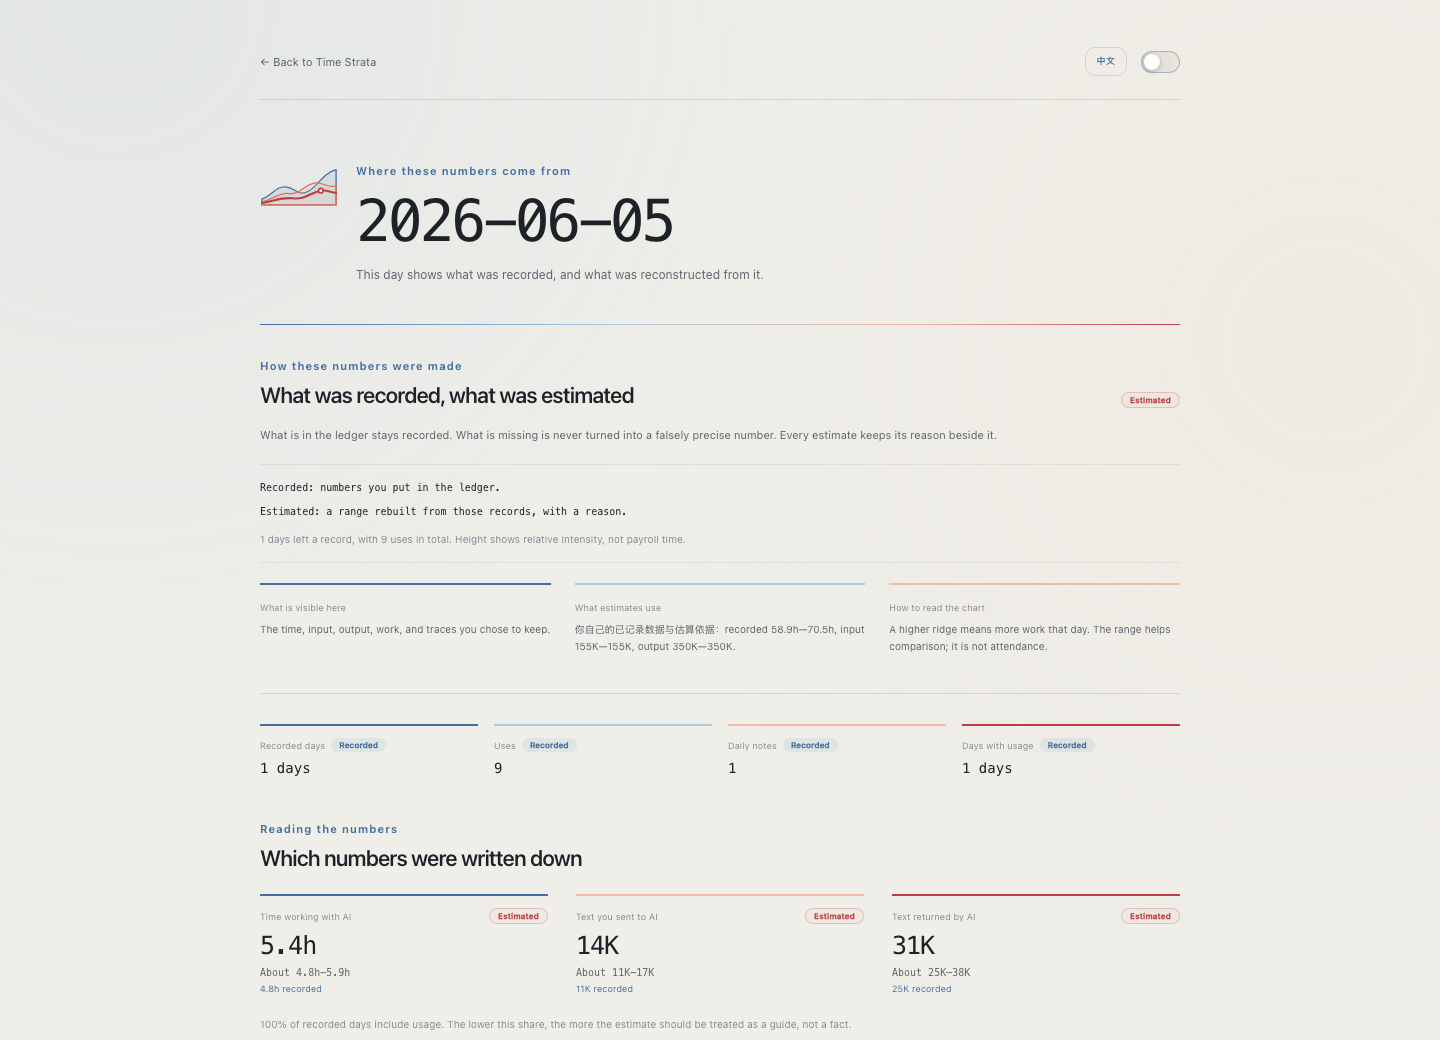
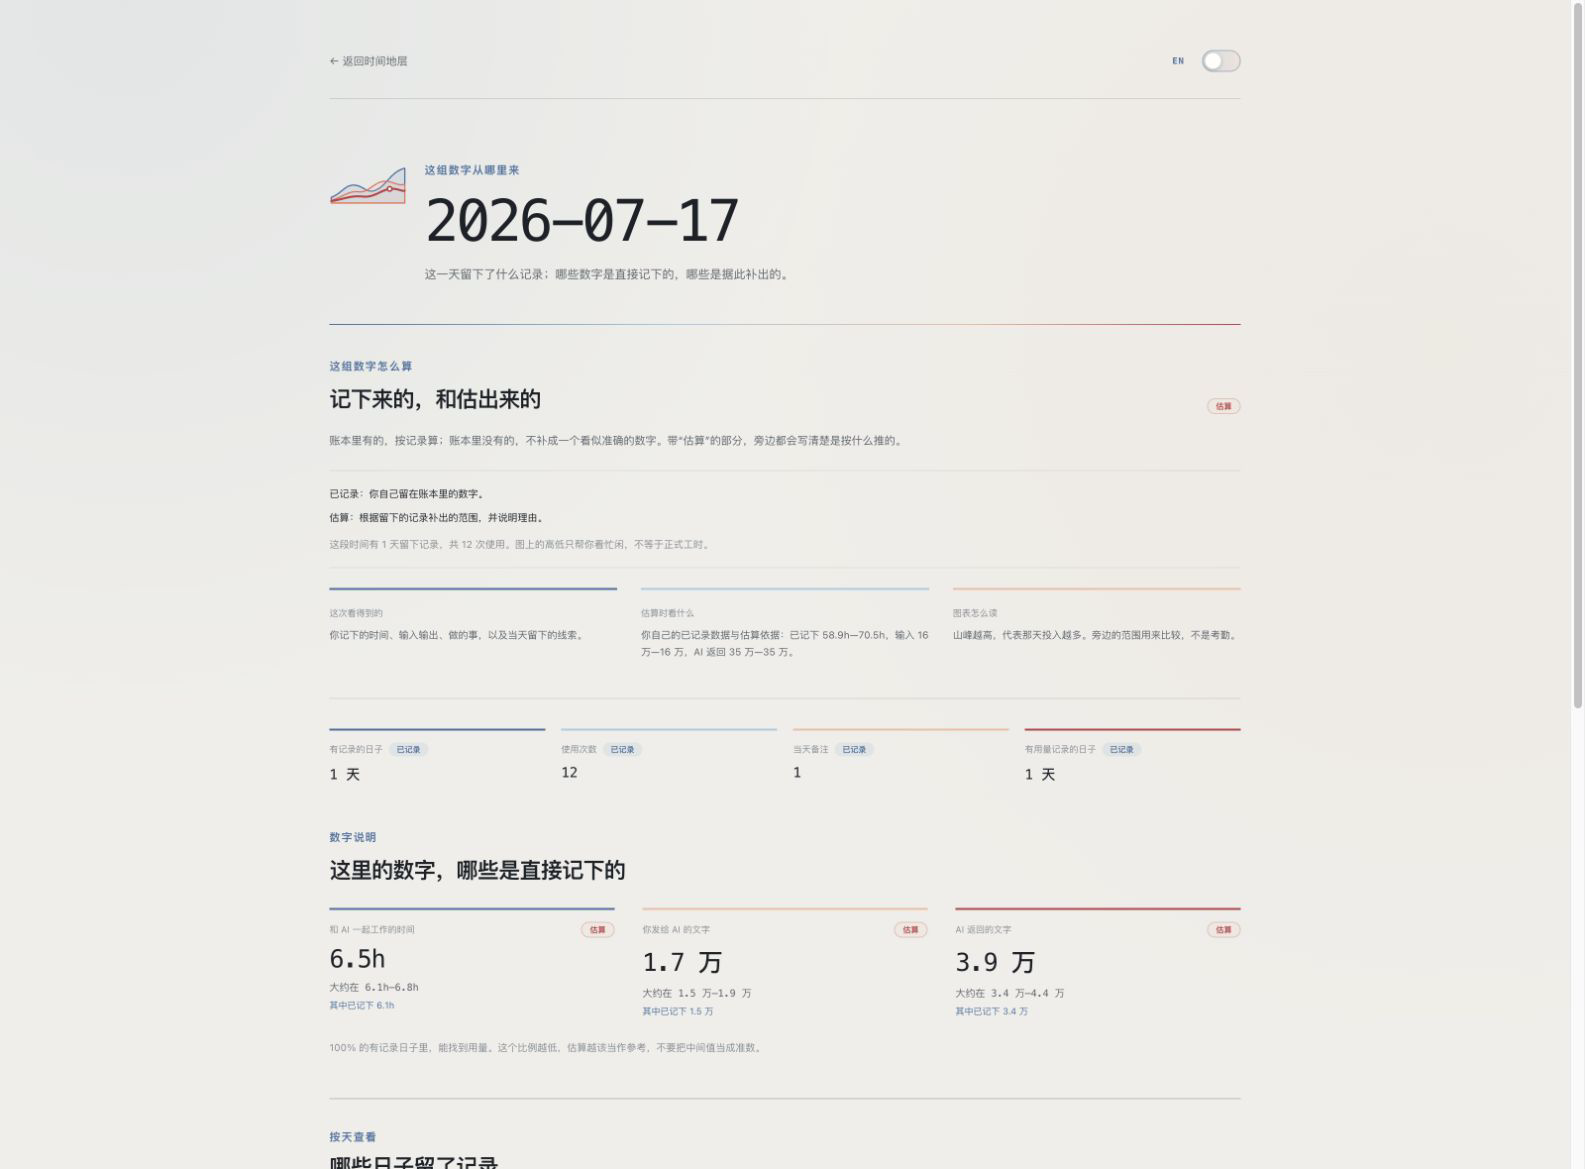
docs: freeze AI Usage Strata v1.0.0

diff --git a/docs/launch/README.zh-CN.md b/docs/launch/README.zh-CN.md
@@ -1,6 +1,6 @@
-# 发布素材包
+# v1.0.0 稳定版发布素材包
 
-这套素材给第一次公开介绍 AI Usage Strata 使用。产品截图只展示虚构案例；不要把任何真实账本、证据链接、项目名称或本地路径放进公开图文。
+这套素材用于公开介绍 AI Usage Strata v1.0.0。产品截图只展示虚构案例；不要把任何真实账本、证据链接、项目名称或本地路径放进公开图文。
 
 ## 文件说明
 
@@ -9,13 +9,13 @@
 | `visuals/ai-usage-strata-cover-horizontal.png` | 1600×900 横版主视觉；适合公众号头图、GitHub Release、LinkedIn、微博配图。 |
 | `visuals/ai-usage-strata-cover-vertical.png` | 1080×1440 竖版封面；适合小红书首图、朋友圈长图、视频封面。 |
 | `visuals/ai-usage-strata-product.png` | 真实公开版页面截图；适合放在第二张，说明这不是概念图。 |
-| `发布文案.md` | 可直接复制的首发文案、不同平台短文案与发布顺序。 |
+| `发布文案.md` | 可直接复制的稳定版文案、不同平台短文案与发布顺序。 |
 
 封面中的山脊背景由内置图像生成工具生成；标题文字和信息排版由本仓库中的 HTML 保证可编辑、可核对。`cover-horizontal.html` 与 `cover-vertical.html` 是两张成图的可编辑源文件。
 
-## 最稳的一次发布顺序
+## 最稳的发布顺序
 
-1. 先发 GitHub Release 和在线页面链接。
+1. 先发 v1.0.0 GitHub Release 和在线页面链接。
 2. 用竖版封面 + 产品截图发小红书或朋友圈；正文放“本机保存、无账号、示例默认关闭”三个事实。
 3. 用横版封面 + GitHub 链接发公众号、微博或 LinkedIn。
 4. 评论区置顶在线体验、GitHub、MIT License 三个链接。

diff --git a/README.md b/README.md
@@ -1,10 +1,19 @@
 # AI Usage Strata
 
-[简体中文](README.zh-CN.md) · [Live app](https://novakepler513.github.io/ai-usage-strata/) · [How to use AI to prepare a ledger](docs/ai-assisted-import.md) · [Ledger format](docs/ledger-format.md) · [Contribute](CONTRIBUTING.md) · [Launch kit](docs/launch/README.md) · [MIT License](LICENSE)
+[简体中文](README.zh-CN.md) · [Live app](https://novakepler513.github.io/ai-usage-strata/) · [Stable v1.0.0](https://github.com/NovaKepler513/ai-usage-strata/releases/tag/v1.0.0) · [How to use AI to prepare a ledger](docs/ai-assisted-import.md) · [Ledger format](docs/ledger-format.md) · [Contribute](CONTRIBUTING.md) · [Launch kit](docs/launch/README.md) · [MIT License](LICENSE)
 
 > A local-first visual ledger for the time, text, and work you do with AI.
 
 ![AI Usage Strata overview: an interactive time-strata dashboard with a 3D ridge view](assets/readme/overview.png)
+
+## v1.0.0 stable release
+
+- Starts at zero; data appears only after you enter it, import it, or deliberately open the fictional example.
+- Supports manual entry, CSV/TSV/JSON, and a review-first route through your own Codex, Claude Code, or another AI.
+- Date wheels apply on click, cover 1900–2100 by default, and extend for imported out-of-range records. Invalid start/end combinations produce a visible page-level warning.
+- Chinese and English, light and dark themes, category filters, day evidence, and the rotatable waterfall now form one complete path.
+
+This is the frozen stable baseline. Further improvements continue through GitHub Issues and pull requests, without bringing real ledgers into the public repository.
 
 ## One question, made visible
 

diff --git a/README.zh-CN.md b/README.zh-CN.md
@@ -1,10 +1,19 @@
 # AI Usage Strata
 
-[English](README.md) · [在线体验](https://novakepler513.github.io/ai-usage-strata/) · [让 AI 整理账本](docs/ai-assisted-import.zh-CN.md) · [账本格式](docs/ledger-format.md) · [参与贡献](CONTRIBUTING.md) · [发布素材](docs/launch/README.zh-CN.md) · [MIT 许可证](LICENSE)
+[English](README.md) · [在线体验](https://novakepler513.github.io/ai-usage-strata/) · [稳定版 v1.0.0](https://github.com/NovaKepler513/ai-usage-strata/releases/tag/v1.0.0) · [让 AI 整理账本](docs/ai-assisted-import.zh-CN.md) · [账本格式](docs/ledger-format.md) · [参与贡献](CONTRIBUTING.md) · [发布素材](docs/launch/README.zh-CN.md) · [MIT 许可证](LICENSE)
 
 > 一个本机优先的可视化账本：把你和 AI 一起工作的时间、文字量与去向，变成一段可回看的记录。
 
 ![AI Usage Strata 总览：带有三维瀑布山脊图的交互式时间账本](assets/readme/overview.png)
+
+## v1.0.0 稳定版
+
+- 默认从 0 开始；只有主动填写、导入或打开虚构示例后才会出现数据。
+- 支持手填、CSV／TSV／JSON，以及让自己的 Codex、Claude Code 或其他 AI 先整理再导入。
+- 日期滚轮可直接点选，默认覆盖 1900—2100 年；导入更早或更晚的记录时会继续扩展。无效起止日期会在页面上方明确提醒。
+- 中英文、明暗主题、分类筛选、日期证据页和可旋转的瀑布山脊图已经组成完整使用链路。
+
+这是当前冻结的稳定基线。后续改进通过 GitHub Issue 和 Pull Request 继续，不会把真实账本带进公开仓库。
 
 ## 它想回答的，其实只有一个问题
 

diff --git a/docs/launch/README.md b/docs/launch/README.md
@@ -1,4 +1,4 @@
-# Launch kit
+# v1.0.0 stable launch kit
 
 This is the public launch kit for AI Usage Strata. It contains only a fictional product view and abstract artwork; do not replace those files with a real ledger, an evidence URL, a client name, or a local path.
 
@@ -8,14 +8,14 @@ This is the public launch kit for AI Usage Strata. It contains only a fictional 
 | --- | --- |
 | `visuals/ai-usage-strata-cover-horizontal.png` | 1600×900 banner for a release page, LinkedIn, X, newsletter, or article header. |
 | `visuals/ai-usage-strata-cover-vertical.png` | 1080×1440 portrait cover for short-form social posts. |
-| `visuals/ai-usage-strata-product.png` | Screenshot of the real public first-run state; use it after a cover to show the product is real. |
+| `visuals/ai-usage-strata-product.png` | Screenshot of the real public app with its fictional example; use it after a cover to show the product is real. |
 | `launch-copy.md` | Ready-to-edit English launch copy and a short release note. |
 
 The ridge backgrounds were created with the built-in image-generation tool. All typography is rendered by the editable HTML cover sources, so the copy remains inspectable and easy to localise.
 
-## A safe first announcement
+## A safe release post
 
-1. Publish the GitHub Release and live-app URL first.
+1. Publish the v1.0.0 GitHub Release and live-app URL first.
 2. Use a cover followed by the public product screenshot.
 3. Pin the live app, source repository, and MIT License links in the reply or comments.
 4. Never post a real ledger, source export, chat log, named client, or local evidence screen.

diff --git a/docs/launch/发布文案.md b/docs/launch/发布文案.md
@@ -1,9 +1,10 @@
-# AI Usage Strata 首发文案
+# AI Usage Strata v1.0.0 稳定版发布文案
 
 发布链接：
 
 - 在线体验：https://novakepler513.github.io/ai-usage-strata/
 - 开源仓库：https://github.com/NovaKepler513/ai-usage-strata
+- 稳定版：https://github.com/NovaKepler513/ai-usage-strata/releases/tag/v1.0.0
 - MIT License：https://github.com/NovaKepler513/ai-usage-strata/blob/main/LICENSE
 
 ## 主文案｜小红书、公众号、微博长文
@@ -19,6 +20,8 @@
 这段时间我一直在想：我们越来越频繁地和 AI 一起工作，但回头看时，往往只剩下一种很模糊的感觉——好像很忙，却说不清哪天真正集中、时间主要花在哪、某个高峰到底对应什么工作。
 
 所以我做了 AI Usage Strata。
+
+现在它到了 v1.0.0：从第一次填写、表格或 JSON 导入、让自己的 AI 整理，到查看日期高峰、工作分类和当天证据，已经是一条完整链路。
 
 它是一个本机优先的可视化账本：你只记录自己愿意留下的数据，页面就把时间、输入、输出、工作分类和当天证据，整理成一段可以旋转、筛选和回看的“时间地层”。
 
@@ -68,7 +71,7 @@ Source: https://github.com/NovaKepler513/ai-usage-strata
 
 I would value feedback on import adapters, accessibility, translations, and the ways people want to inspect AI-assisted work without giving up privacy.
 
-## GitHub Release｜短说明
+## GitHub Release｜v1.0.0 短说明
 
 AI Usage Strata is now available as an open-source, local-first AI work ledger.
 

diff --git a/docs/launch/交付说明.md b/docs/launch/交付说明.md
@@ -1,10 +1,10 @@
-# AI Usage Strata · 首发交付说明
+# AI Usage Strata · v1.0.0 稳定版交付说明
 
-版本：v0.7.14
+版本：v1.0.0
 发布日期：2026-07-26
 线上体验：https://novakepler513.github.io/ai-usage-strata/
 GitHub：https://github.com/NovaKepler513/ai-usage-strata
-Release：https://github.com/NovaKepler513/ai-usage-strata/releases/tag/v0.7.14
+Release：https://github.com/NovaKepler513/ai-usage-strata/releases/tag/v1.0.0
 
 ## 这次已经交付什么
 
@@ -12,7 +12,7 @@ Release：https://github.com/NovaKepler513/ai-usage-strata/releases/tag/v0.7.14
 - 公开页面：中英文、本机优先、默认空账本、虚构示例按需加载。
 - 开源入口：页面右下角蝴蝶圆标打开“版权与开源”，可下载 MIT License、访问源码、到 GitHub 反馈或贡献。
 - 文档：双语 README、数据格式、AI 整理与安全边界、贡献说明、发布检查清单。
-- 发布素材：横版主视觉、竖版封面、真实公开版截图和各平台首发文案。
+- 发布素材：横版主视觉、竖版封面、最新公开版虚构案例截图、公开证据页截图和各平台稳定版文案。
 
 ## 下载包里怎么用
 

diff --git a/docs/launch/launch-copy.md b/docs/launch/launch-copy.md
@@ -1,14 +1,17 @@
-# AI Usage Strata launch copy
+# AI Usage Strata v1.0.0 launch copy
 
 Links:
 
 - Live app: https://novakepler513.github.io/ai-usage-strata/
 - Source: https://github.com/NovaKepler513/ai-usage-strata
+- Stable release: https://github.com/NovaKepler513/ai-usage-strata/releases/tag/v1.0.0
 - MIT License: https://github.com/NovaKepler513/ai-usage-strata/blob/main/LICENSE
 
 ## Main post
 
 I built and open-sourced AI Usage Strata — a local-first visual ledger for the work you choose to keep about working with AI.
+
+Version 1.0.0 completes the path from first entry, table or JSON import, and review-first AI preparation to date peaks, work categories, and day-level evidence.
 
 It turns a small personal ledger into a readable record of time, input, output, work categories, and retained day-level evidence. It starts empty by design: no account, no analytics, no upload, and no chat-history scraping. You decide what to record and what to keep in your browser.
 
